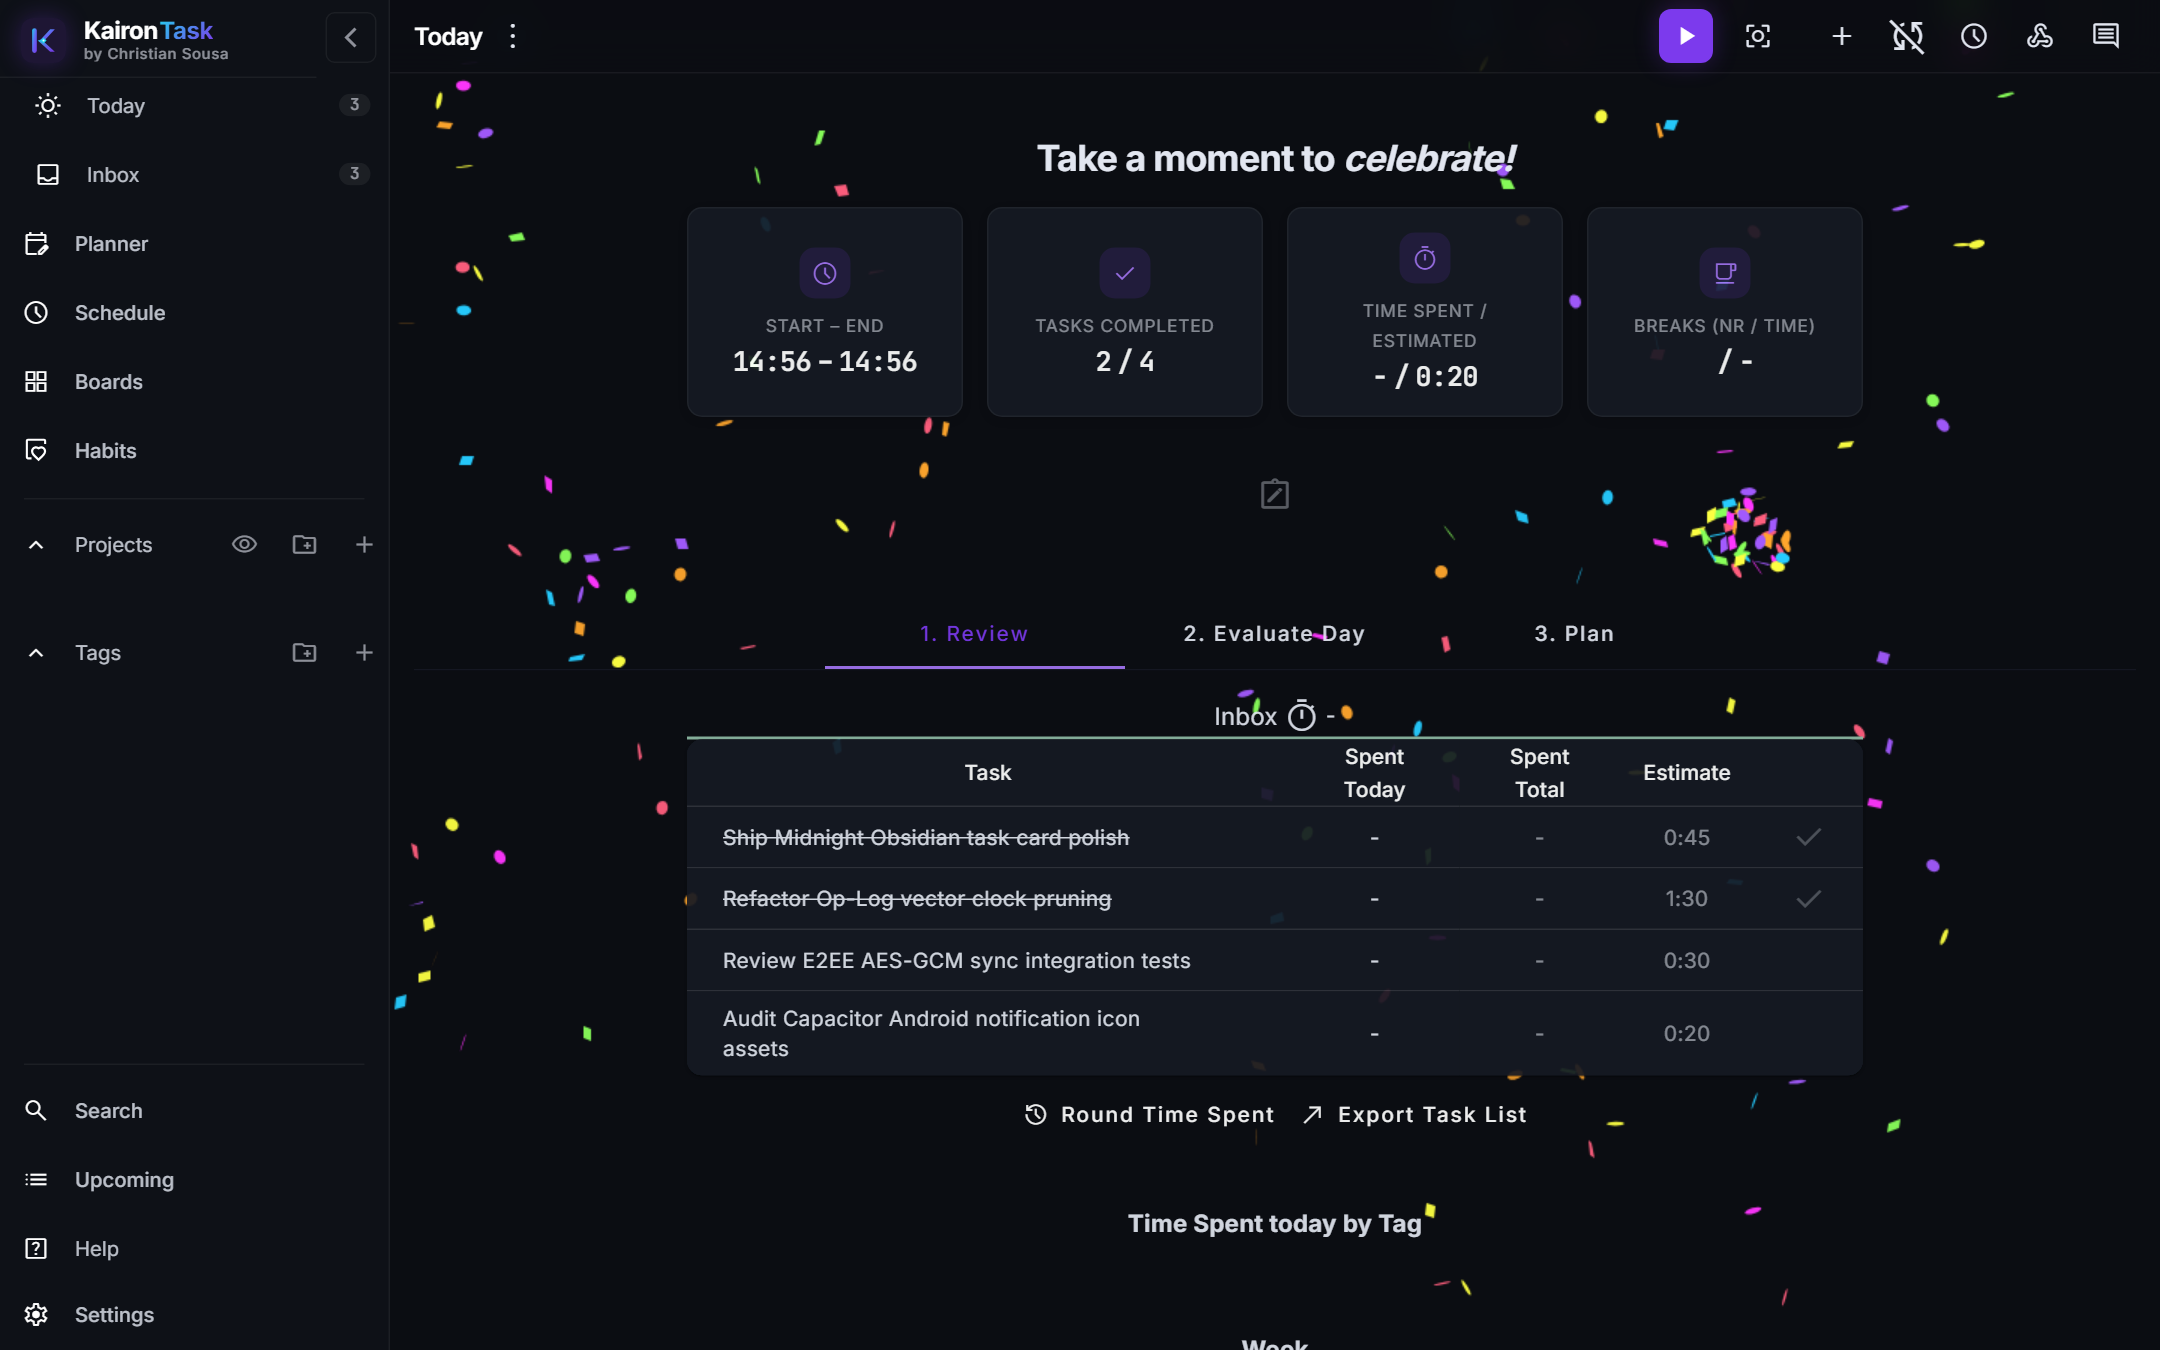
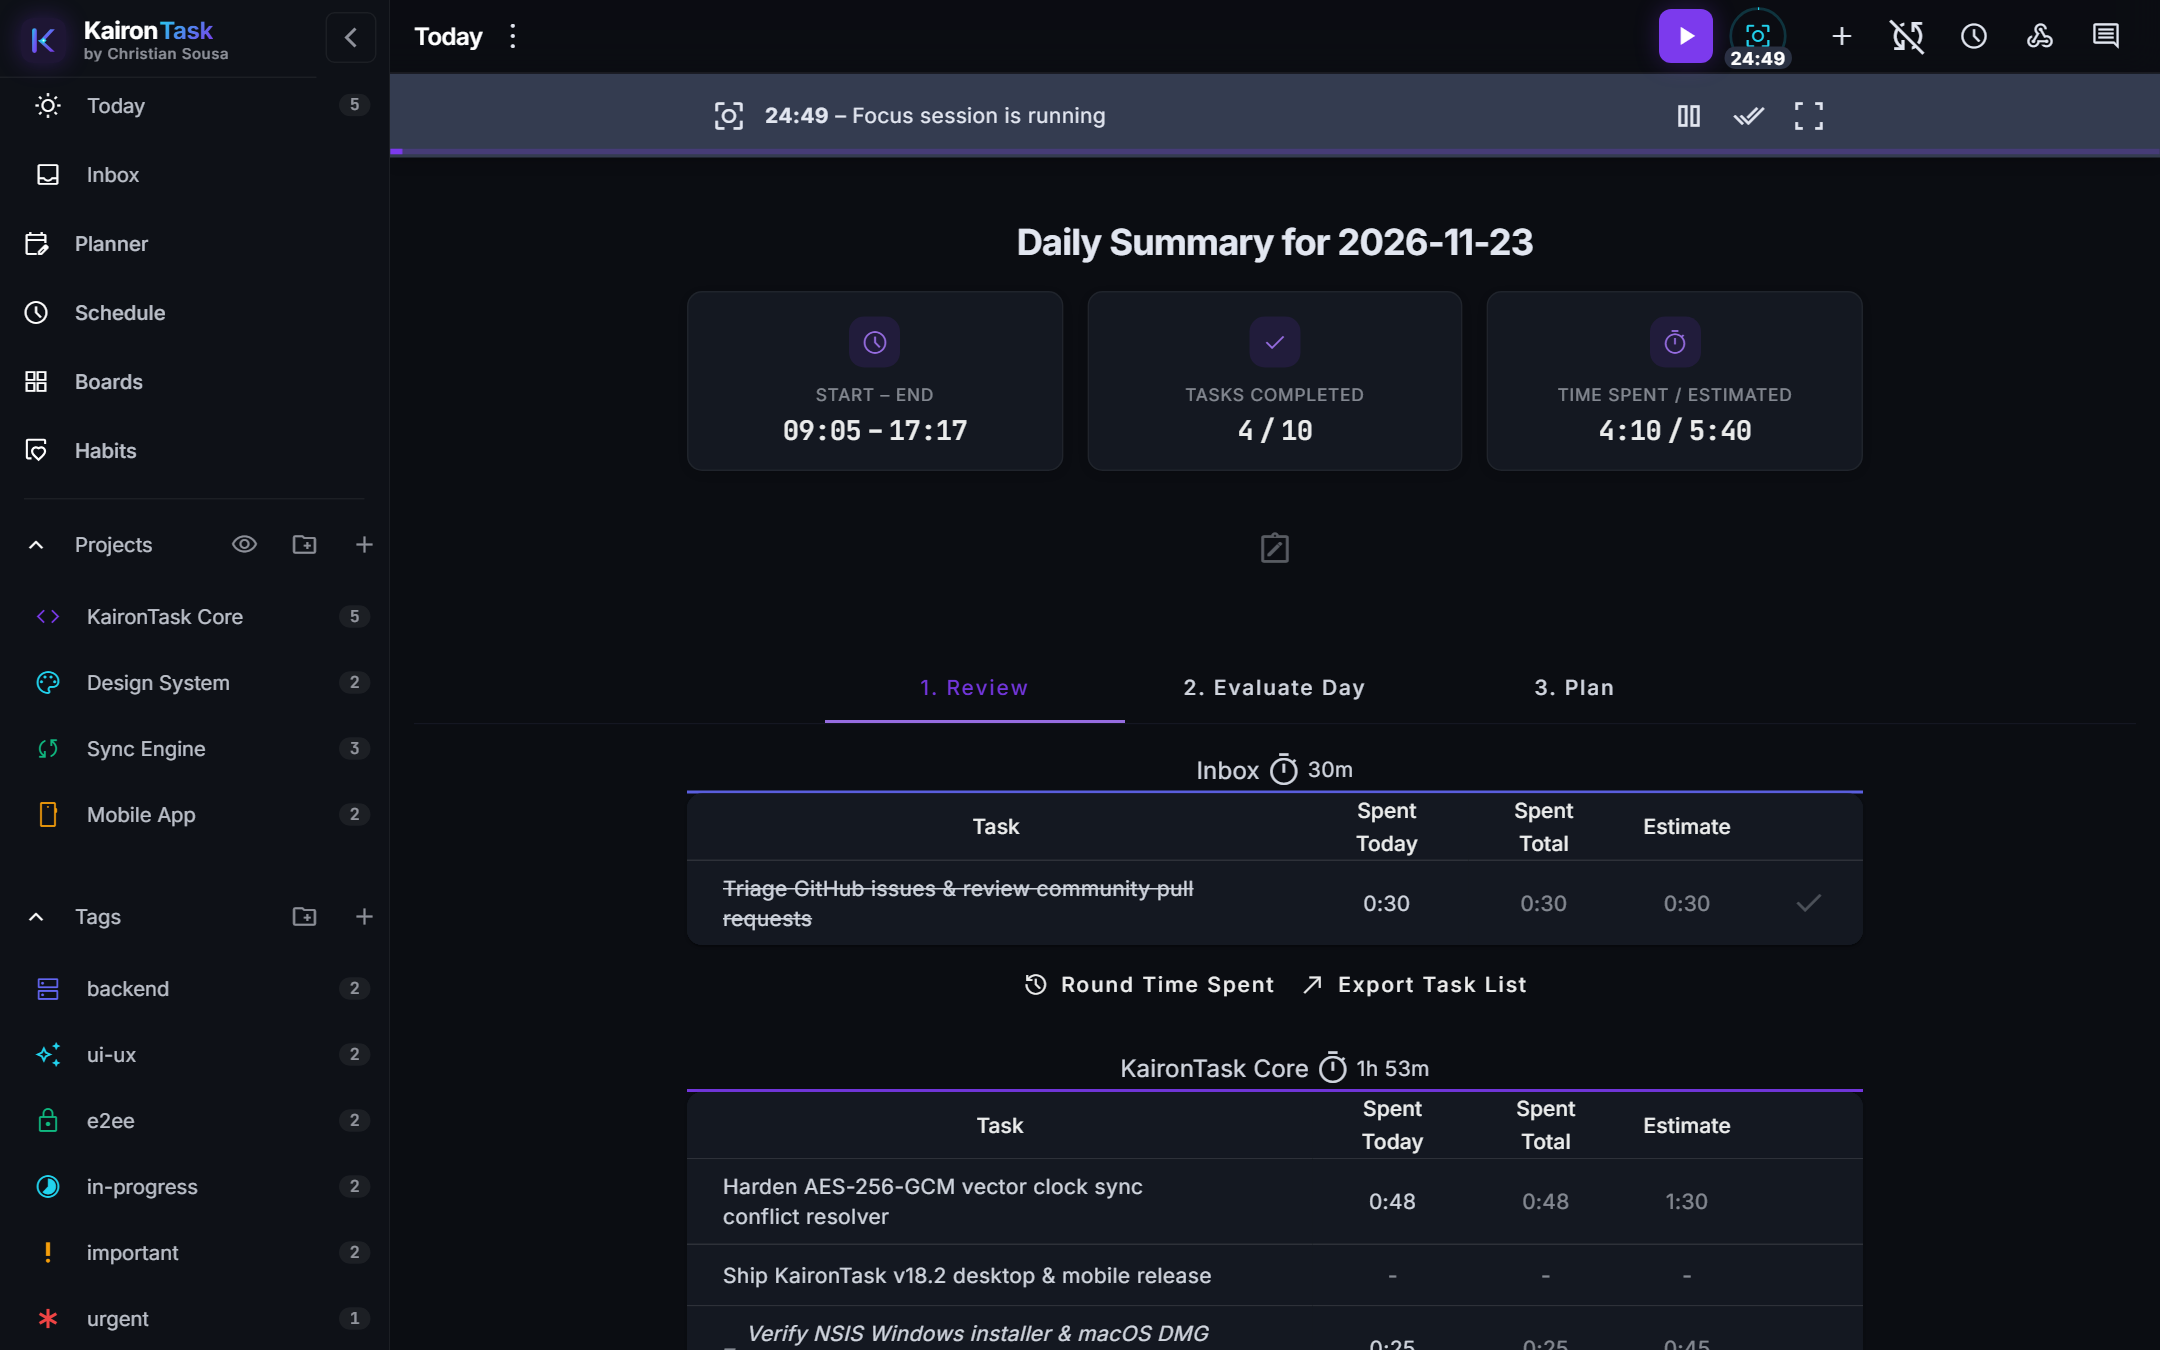
docs(readme): add comprehensive 8-screen visual tour and workflow guide

diff --git a/README.pt-BR.md b/README.pt-BR.md
@@ -72,17 +72,78 @@ Sincronize tarefas de forma bidirecional sem trocar de janela:
 
 ---
 
-## 📸 Telas e Demonstração Visual
+## 📸 Tour Visual do Produto
 
-|                        🌙 Lista de Tarefas & Timeboxing (Dark Mode)                         |                              ☀ Interface Dinâmica (Light Mode)                              |
-| :-----------------------------------------------------------------------------------------: | :------------------------------------------------------------------------------------------: |
-| <img src="docs/assets/screenshot-tasks-dark.png" alt="KaironTask Dark Mode" width="100%"/>  | <img src="docs/assets/screenshot-tasks-light.png" alt="KaironTask Light Mode" width="100%"/> |
-| _Workspace Midnight Obsidian com barra de métricas em pílula, rastreio ativo e subtarefas._ | _Modo claro de alto contraste com bordas nítidas de 1px e realce ciano calibrado (WCAG AA)._ |
+Veja como o KaironTask conduz seu fluxo de trabalho — da captura rápida pelo teclado ao foco profundo, planejamento semanal e fechamento do dia.
 
-|                           ⏱ Resumo Diário & Planejamento de Fechamento                           |                         📊 Worklog, Métricas & Folha de Ponto                         |
-| :-----------------------------------------------------------------------------------------------: | :-----------------------------------------------------------------------------------: |
-| <img src="docs/assets/screenshot-daily-summary.png" alt="KaironTask Daily Summary" width="100%"/> | <img src="docs/assets/screenshot-worklog.png" alt="KaironTask Worklog" width="100%"/> |
-|      _Cards KPI estruturados em grid, revisão de tarefas concluídas e notas de fechamento._       |     _Detalhamento anual, mensal e semanal de horas trabalhadas e folha de ponto._     |
+### 1. Workspace Hoje, Timeboxing e Temas Adaptativos
+
+A visualização **Hoje** centraliza sua rotina: uma barra lateral retrátil organiza **Listas Inteligentes**, **Projetos** (`KaironTask Core`, `Design System`, `Sync Engine`, `Mobile App`) e **Tags**, enquanto a barra superior em pílula acompanha capacidade estimada vs. restante em tempo real (`~3h 11m` / `3h 20m`). A tarefa ativa recebe destaque em ciano elétrico com cronômetro ao vivo, subtarefas expansíveis e um **painel lateral em Markdown** com checklists interativos.
+
+<img src="docs/assets/screenshot-tasks-dark.png" alt="KaironTask Workspace Hoje (Dark Mode)" width="100%"/>
+
+_Modo Escuro Midnight Obsidian com navegação por projetos, barra de métricas em pílula, rastreio ativo em ciano, subtarefas e painel Markdown._
+
+<details>
+<summary>☀ Visualizar Modo Claro Adaptativo de Alto Contraste</summary>
+
+<br/>
+
+<img src="docs/assets/screenshot-tasks-light.png" alt="KaironTask Workspace Hoje (Light Mode)" width="100%"/>
+
+_Modo Claro limpo e de alto contraste, com bordas estruturais nítidas de `1px` e realce ciano calibrado (WCAG AA)._
+
+</details>
+
+### 2. Foco Profundo e Motor Pomodoro
+
+Pressione `F` (ou clique no botão de foco no cabeçalho) para entrar no **Modo Foco** — uma tela limpa sobre gradiente radial Midnight Obsidian. Alterne entre modos **Countdown**, **Pomodoro** (ciclos configuráveis de `25m` / `5m` / `15m`) e **Flowtime** mantendo apenas a tarefa em andamento visível.
+
+<img src="docs/assets/screenshot-focus-mode.png" alt="KaironTask Modo Foco Profundo" width="100%"/>
+
+_HUD do Modo Foco em tela cheia com anel regressivo ativo (`24:55`) e zero distrações laterais._
+
+### 3. Planejador Semanal, Cronograma Timeblocked e Quadros Kanban
+
+Organize sua semana inteira e distribua blocos concretos de execução ao longo da jornada:
+
+|                                 📅 Planejador Semanal                                 |                             ⏱ Cronograma (Timeline Schedule)                              |
+| :-----------------------------------------------------------------------------------: | :----------------------------------------------------------------------------------------: |
+| <img src="docs/assets/screenshot-planner.png" alt="Planejador Semanal" width="100%"/> | <img src="docs/assets/screenshot-schedule.png" alt="Cronograma Timeblocked" width="100%"/> |
+|    _Colunas multi-dia (`Seg`–`Qui`) com carga horária diária e arrastar-e-soltar._    |     _Timeblocking automático com blocos coloridos por projeto e intervalos de pausa._      |
+
+<img src="docs/assets/screenshot-boards.png" alt="KaironTask Quadros Kanban e Matriz de Eisenhower" width="100%"/>
+
+_Quadros **Kanban** customizáveis (`To Do`, `In Progress`, `Done`) e abas integradas da **Matriz de Eisenhower** para triagem visual e controle de WIP._
+
+### 4. Resumo Diário, Worklog e Folha de Ponto
+
+Encerre o expediente com clareza através de cards KPI (`09:05 - 17:17`, tarefas concluídas, tempo trabalhado), tabelas agrupadas por projeto e um **Worklog** histórico com totais semanais e diários.
+
+|                                  🌙 Resumo Diário & Retrospectiva                                  |                              📊 Worklog & Folha de Ponto                               |
+| :------------------------------------------------------------------------------------------------: | :------------------------------------------------------------------------------------: |
+| <img src="docs/assets/screenshot-daily-summary.png" alt="KaironTask Resumo Diário" width="100%"/>  | <img src="docs/assets/screenshot-worklog.png" alt="KaironTask Worklog" width="100%"/>  |
+| _Fechamento do dia com janela de trabalho (`09:05 - 17:17`), KPIs e revisão agrupada por projeto._ | _Histórico semanal e diário (`26h 55m` em 8 dias) com acesso rápido à folha de ponto._ |
+
+---
+
+## ⌨ Sintaxe Rápida & Atalhos Padrão
+
+Crie, categorize, estime e agende tarefas em uma única linha usando a barra de adição rápida (`Shift+A`):
+
+```text
+Audit OAuth2 token refresh flow +Sync Engine #e2ee #backend t45m/1h30m @tomorrow 10:00
+```
+
+| Token / Atalho                | Comportamento                                                            |
+| :---------------------------- | :----------------------------------------------------------------------- |
+| `+Projeto`                    | Vincula a tarefa a um projeto existente (`+Sync Engine`)                 |
+| `#tag`                        | Associa ou cria tags automaticamente (`#backend`, `#ui-ux`)              |
+| `30m` / `1h 30m` / `t45m/1h`  | Define estimativa ou razão `tempoGasto/estimativa`                       |
+| `@tomorrow 10:00` / `@Friday` | Interpreta datas e lembretes em linguagem natural (`chrono-node`)        |
+| `Shift+A` / `Y` / `D`         | Nova tarefa rápida / Iniciar-pausar timer / Concluir tarefa              |
+| `A` / `T` / `S` / `I`         | Adicionar subtarefa / Estimar tempo / Agendar / Abrir painel Markdown    |
+| `F` / `W` / `Shift+T` / `?`   | Modo Foco / Visão Hoje / Cronograma Timeline / Ajuda completa de atalhos |
 
 ---
 

diff --git a/README.md b/README.md
@@ -72,17 +72,78 @@ Two-way synchronization with leading issue tracking and developer platforms with
 
 ---
 
-## 📸 Visual Showcase & Screens
+## 📸 Visual Product Tour
 
-|                           🌙 Task List & Timeboxing (Dark Mode)                            |                          ☀ Adaptive Dynamic Interface (Light Mode)                          |
-| :----------------------------------------------------------------------------------------: | :------------------------------------------------------------------------------------------: |
-| <img src="docs/assets/screenshot-tasks-dark.png" alt="KaironTask Dark Mode" width="100%"/> | <img src="docs/assets/screenshot-tasks-light.png" alt="KaironTask Light Mode" width="100%"/> |
-|  _Midnight Obsidian workspace with pill metrics bar, active cyan tracking, and subtasks._  |      _Clean high-contrast light mode with crisp 1px borders and WCAG AA cyan accents._       |
+Explore how KaironTask guides your daily workflow — from fast keyboard capture to deep focus, weekly planning, and end-of-day wrap-up.
 
-|                                ⏱ Daily Summary & Workday Wrap-Up                                 |                         📊 Worklog, Time Metrics & Timesheets                         |
+### 1. Today Workspace, Timeboxing & Adaptive Themes
+
+The **Today** view serves as your daily command center: a collapsible sidebar organizes **Smart Lists**, **Projects** (`KaironTask Core`, `Design System`, `Sync Engine`, `Mobile App`), and **Tags**, while the pill-shaped metrics bar tracks remaining vs. estimated daily capacity (`~3h 11m` / `3h 20m`). The active task highlights in electric cyan with a live timer, expandable subtasks, and a right-hand **Markdown detail panel** with interactive checklists.
+
+<img src="docs/assets/screenshot-tasks-dark.png" alt="KaironTask Today Workspace (Dark Mode)" width="100%"/>
+
+_Midnight Obsidian Dark Mode featuring sidebar project navigation, pill status metrics, active cyan tracking, subtasks, and Markdown detail drawer._
+
+<details>
+<summary>☀ Preview Adaptive High-Contrast Light Mode</summary>
+
+<br/>
+
+<img src="docs/assets/screenshot-tasks-light.png" alt="KaironTask Today Workspace (Light Mode)" width="100%"/>
+
+_Clean high-contrast Light Mode engineered with crisp `1px` structural borders and WCAG AA cyan accents for bright environments._
+
+</details>
+
+### 2. Deep Focus & Pomodoro Engine
+
+Press `F` (or click the focus button in the top bar) to enter **Focus Mode** — a distraction-free full-screen HUD set over a subtle Midnight Obsidian radial backdrop. Switch between **Countdown**, **Pomodoro** (`25m` / `5m` / `15m` configurable cycles), and **Flowtime** modes while keeping only your active task in view.
+
+<img src="docs/assets/screenshot-focus-mode.png" alt="KaironTask Deep Focus Mode" width="100%"/>
+
+_Full-screen Focus Mode HUD with active countdown ring (`24:55`) and zero sidebar clutter._
+
+### 3. Weekly Planning, Timeline Schedule & Kanban Boards
+
+Plan across your week and map concrete execution blocks throughout the workday:
+
+|                                      📅 Weekly Planner                                      |                                  ⏱ Timeblocked Schedule                                  |
+| :-----------------------------------------------------------------------------------------: | :---------------------------------------------------------------------------------------: |
+|      <img src="docs/assets/screenshot-planner.png" alt="Weekly Planner" width="100%"/>      |   <img src="docs/assets/screenshot-schedule.png" alt="Timeline Schedule" width="100%"/>   |
+| _Multi-day column board (`Mon`–`Thu`) with daily hour totals and drag-and-drop scheduling._ | _Automatic timeblocking across workdays with color-coded project blocks and break slots._ |
+
+<img src="docs/assets/screenshot-boards.png" alt="KaironTask Kanban & Eisenhower Boards" width="100%"/>
+
+_Custom **Kanban Boards** (`To Do`, `In Progress`, `Done`) and built-in **Eisenhower Matrix** tabs for visual triage and work-in-progress control._
+
+### 4. Daily Summary, Worklog & Timesheets
+
+Close every workday intentionally with structured KPI cards (`09:05 - 17:17`, tasks completed, time worked), grouped completed task tables, and a multi-week **Worklog** summarizing logged hours across days and weeks.
+
+|                                 🌙 Daily Summary & Retrospective                                  |                                📊 Worklog & Timesheets                                |
 | :-----------------------------------------------------------------------------------------------: | :-----------------------------------------------------------------------------------: |
 | <img src="docs/assets/screenshot-daily-summary.png" alt="KaironTask Daily Summary" width="100%"/> | <img src="docs/assets/screenshot-worklog.png" alt="KaironTask Worklog" width="100%"/> |
-|        _Structured KPI metric cards, completed task tables, and end-of-day retrospective._        |     _Annual/monthly/weekly worklog breakdown with quick task & timesheet review._     |
+|  _End-of-day wrap-up with work window (`09:05 - 17:17`), KPI cards, and grouped task breakdown._  |  _Weekly and daily breakdown (`26h 55m` across 8 days) with fast timesheet export._   |
+
+---
+
+## ⌨ Quick-Add Syntax & Default Shortcuts
+
+Create, categorize, estimate, and schedule tasks in one line using inline short syntax in the Quick-Add bar (`Shift+A`):
+
+```text
+Audit OAuth2 token refresh flow +Sync Engine #e2ee #backend t45m/1h30m @tomorrow 10:00
+```
+
+| Token / Shortcut              | Behavior                                                         |
+| :---------------------------- | :--------------------------------------------------------------- |
+| `+Project`                    | Assigns the task to an existing project (`+Sync Engine`)         |
+| `#tag`                        | Attaches or creates tags (`#backend`, `#ui-ux`)                  |
+| `30m` / `1h 30m` / `t45m/1h`  | Sets time estimate, or `timeSpent/timeEstimate` split            |
+| `@tomorrow 10:00` / `@Friday` | Parses natural-language due dates and reminders (`chrono-node`)  |
+| `Shift+A` / `Y` / `D`         | Quick-add task / Start-pause timer / Toggle done                 |
+| `A` / `T` / `S` / `I`         | Add subtask / Estimate time / Schedule / Open Markdown panel     |
+| `F` / `W` / `Shift+T` / `?`   | Focus Mode / Today view / Timeline Schedule / Full shortcut help |
 
 ---
 
